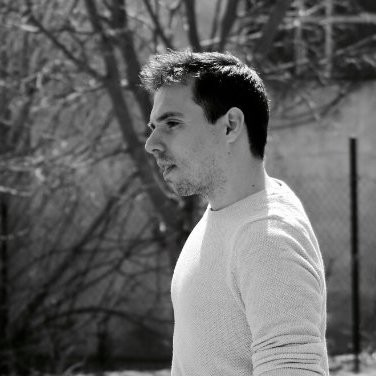
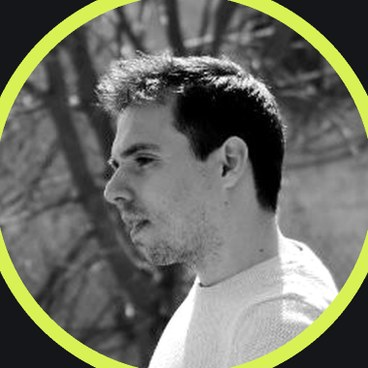
feat: la misma foto que el perfil de GitHub

diff --git a/index.html b/index.html
@@ -27,7 +27,7 @@
     </div>
 
     <div class="who">
-      <img class="avatar" src="assets/img/avatar.jpeg" alt="Antonio López Muzás" width="84" height="84" itemprop="image">
+      <img class="avatar" src="assets/img/avatar.jpeg?v=2610" alt="Antonio López Muzás" width="84" height="84" itemprop="image">
       <div>
         <h1 itemprop="name">Antonio López Muzás</h1>
         <p class="role"><span itemprop="jobTitle">Senior Software Engineer</span><br>Spain · remote</p>
